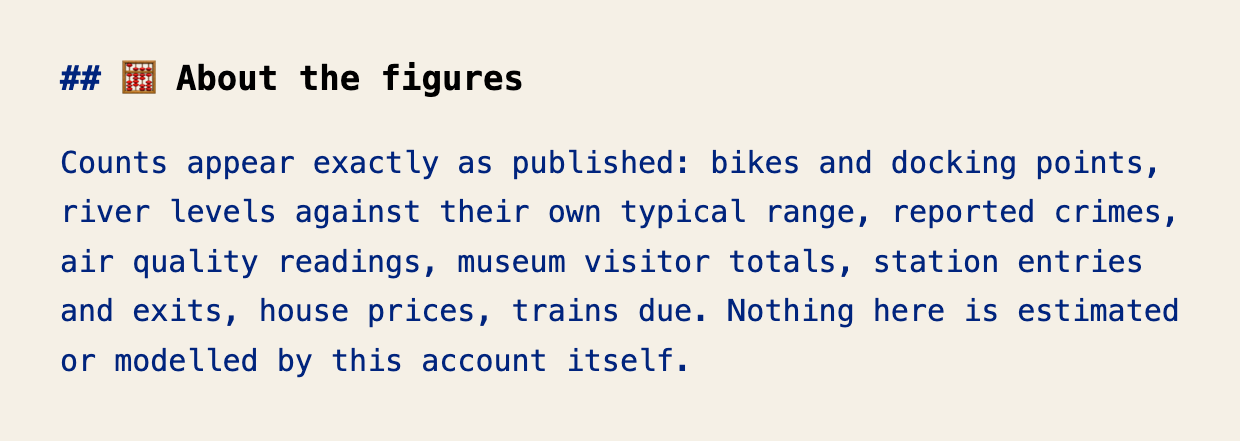
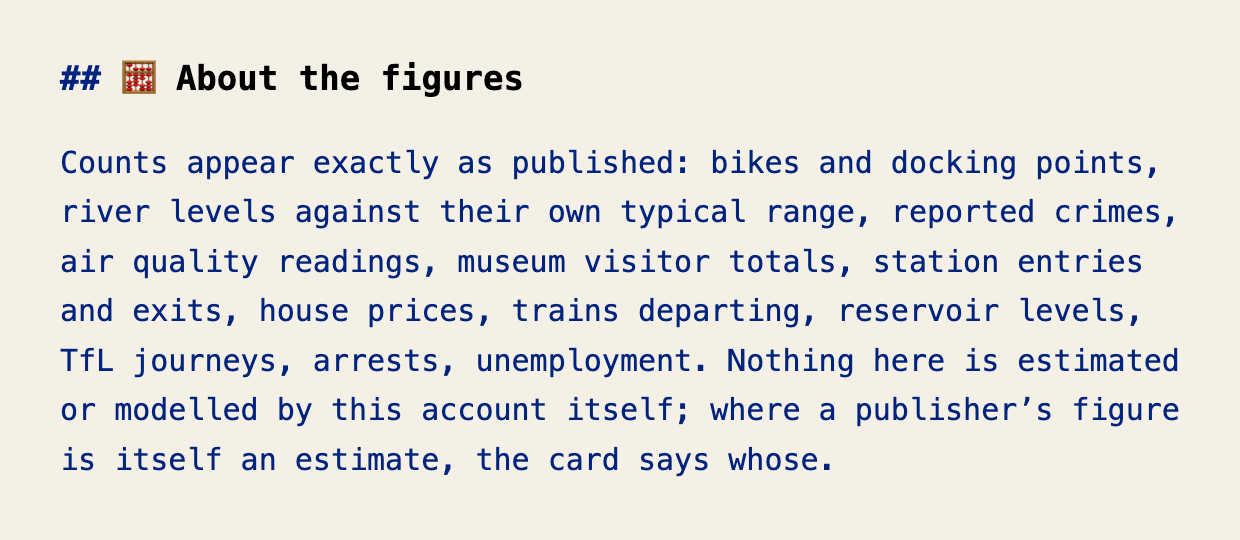
Pinned thread: the Datastore series on the figures card, the ONS geoportal in the sources

diff --git a/london_index_methodology.py b/london_index_methodology.py
@@ -76,8 +76,10 @@ INTRO = ("This account provides a portrait of London, drawn from the city's own 
 COUNTS = ("Counts appear exactly as published: bikes and docking points, river "
           "levels against their own typical range, reported crimes, air quality "
           "readings, museum visitor totals, station entries and exits, house "
-          "prices, trains due. Nothing here is estimated or modelled by this "
-          "account itself.")
+          "prices, trains departing, reservoir levels, TfL journeys, arrests, "
+          "unemployment. Nothing here is estimated or modelled by this account "
+          "itself; where a publisher's figure is itself an estimate, the card "
+          "says whose.")
 # tfl_crowding (TfL's undocumented, relative-to-itself /crowding/Live
 # endpoint) is paused as of 31 August 2026 - see HARVESTERS in
 # london_index_harvest.py for why - and station_usage/daily_footfall took
@@ -126,7 +128,7 @@ SOURCE_PREFIX = 'Sources: '
 SOURCE_LINE = (SOURCE_PREFIX + 'tfl.gov.uk, crowding.data.tfl.gov.uk, '
                'environment.data.gov.uk, data.police.uk, '
                'data.london.gov.uk, londonair.org.uk, www.gov.uk, '
-               'landregistry.data.gov.uk, nationalrail.co.uk')
+               'landregistry.data.gov.uk, nationalrail.co.uk, geoportal.statistics.gov.uk')
 # landregistry.data.gov.uk (UK House Price Index) and nationalrail.co.uk
 # (Rail Delivery Group's Live Departure Board, whose licence requires the
 # credit) added 12 September 2026 with the house_prices and rail_departures
@@ -147,7 +149,12 @@ SOURCE_DOMAINS = [('tfl.gov.uk', 'https://tfl.gov.uk'),
                   ('londonair.org.uk', 'https://www.londonair.org.uk'),
                   ('www.gov.uk', 'https://www.gov.uk'),
                   ('landregistry.data.gov.uk', 'https://landregistry.data.gov.uk/app/ukhpi'),
-                  ('nationalrail.co.uk', 'https://www.nationalrail.co.uk')]
+                  ('nationalrail.co.uk', 'https://www.nationalrail.co.uk'),
+                  # The borough outlines under every map reply, added 12 September
+                  # 2026 with the seven Datastore series (which credit
+                  # data.london.gov.uk, already listed). Not a substring of any other
+                  # listed domain: 'statistics.gov.uk' and 'gov.uk' are never listed bare.
+                  ('geoportal.statistics.gov.uk', 'https://geoportal.statistics.gov.uk')]
 
 
 def _alt(card):
